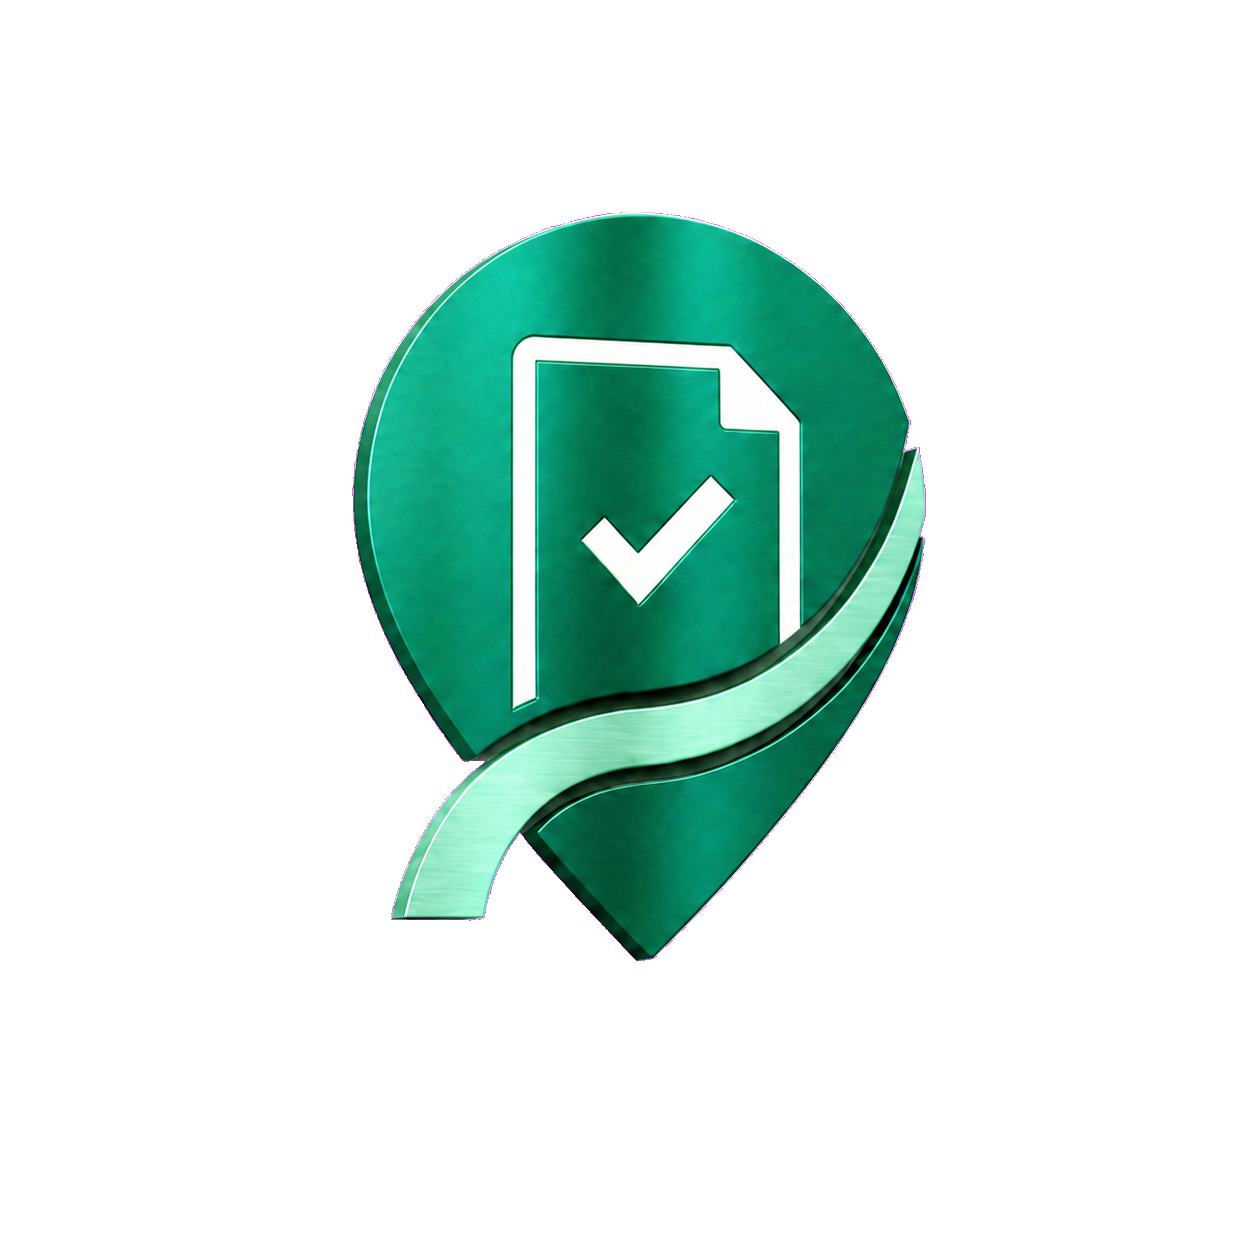
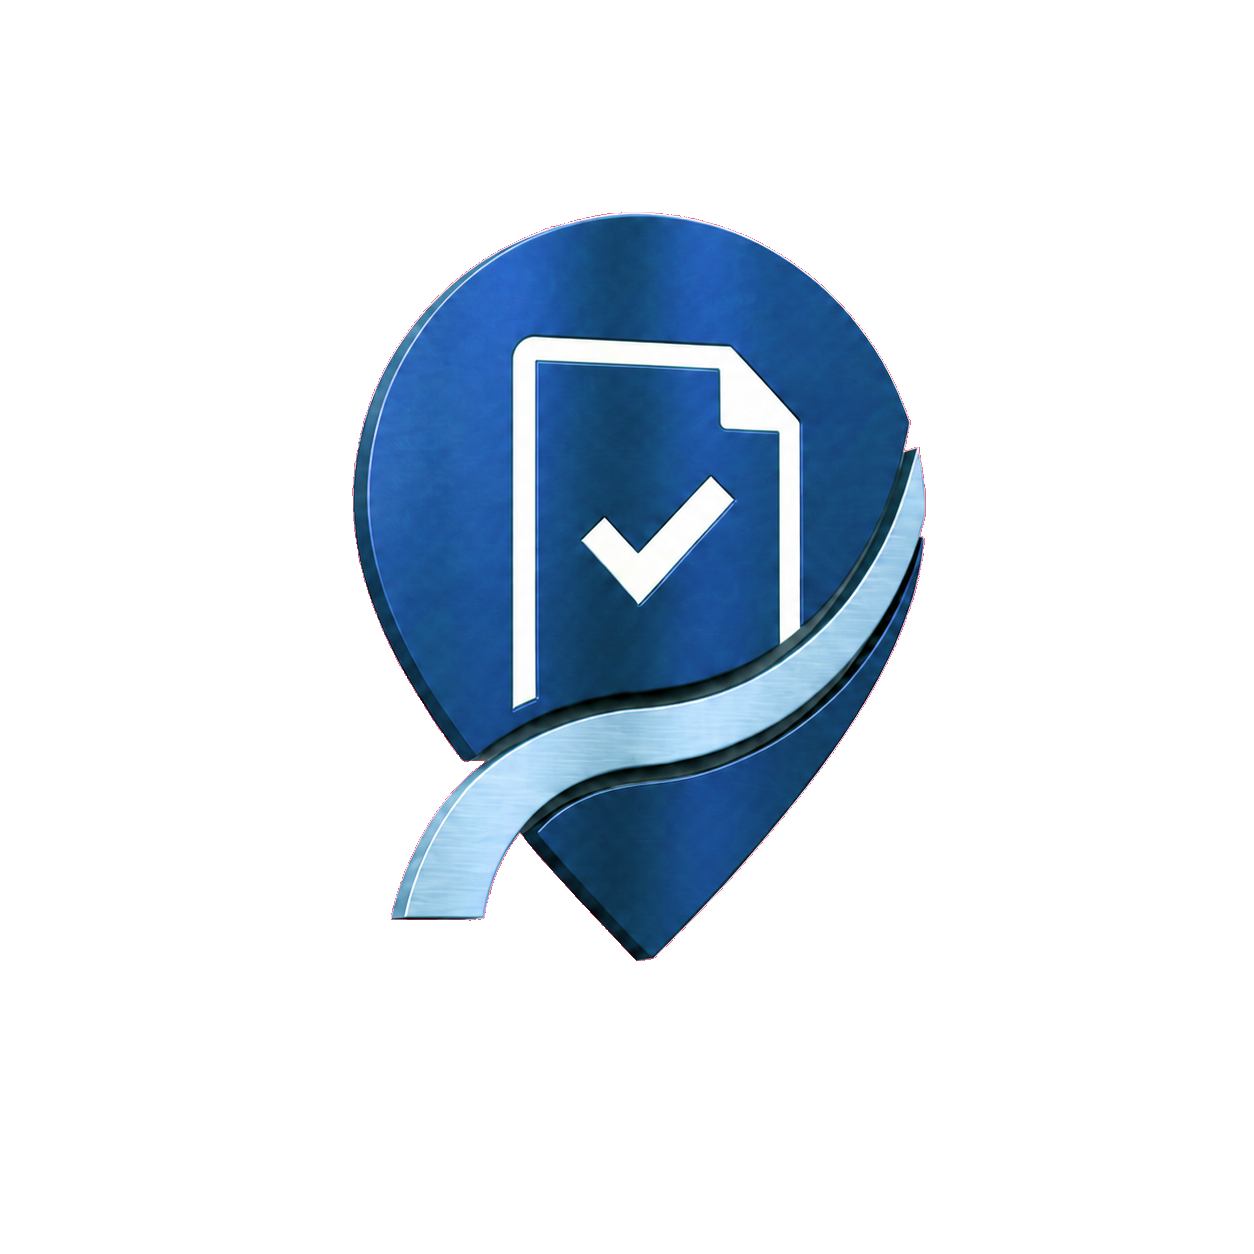
New ui

Changed region(s): [[0.2799, 0.1555, 0.7464, 0.7775]]

diff --git a/resources/css/app.css b/resources/css/app.css
@@ -48,69 +48,69 @@
 }
 
 :root {
-    --background: hsl(100 16% 97%);
-    --foreground: hsl(169 30% 12%);
+    --background: hsl(210 25% 98%);
+    --foreground: hsl(215 30% 14%);
     --card: hsl(0 0% 100%);
-    --card-foreground: hsl(169 30% 12%);
+    --card-foreground: hsl(215 30% 14%);
     --popover: hsl(0 0% 100%);
-    --popover-foreground: hsl(169 30% 12%);
-    --primary: hsl(171 58% 29%);
+    --popover-foreground: hsl(215 30% 14%);
+    --primary: hsl(213 45% 36%);
     --primary-foreground: hsl(0 0% 100%);
-    --secondary: hsl(160 24% 92%);
-    --secondary-foreground: hsl(171 52% 18%);
-    --muted: hsl(150 12% 94%);
-    --muted-foreground: hsl(168 10% 39%);
-    --accent: hsl(39 85% 87%);
-    --accent-foreground: hsl(33 72% 27%);
+    --secondary: hsl(212 26% 93%);
+    --secondary-foreground: hsl(214 35% 22%);
+    --muted: hsl(210 18% 94%);
+    --muted-foreground: hsl(214 12% 40%);
+    --accent: hsl(39 60% 90%);
+    --accent-foreground: hsl(32 50% 30%);
     --destructive: hsl(0 70% 45%);
     --destructive-foreground: hsl(0 0% 100%);
-    --border: hsl(160 12% 87%);
-    --input: hsl(160 12% 80%);
-    --ring: hsl(171 64% 28%);
-    --chart-1: hsl(171 64% 28%);
+    --border: hsl(212 16% 88%);
+    --input: hsl(212 16% 81%);
+    --ring: hsl(213 48% 38%);
+    --chart-1: hsl(213 48% 40%);
     --chart-2: hsl(39 73% 51%);
-    --chart-3: hsl(198 55% 40%);
+    --chart-3: hsl(198 55% 42%);
     --chart-4: hsl(18 65% 58%);
-    --chart-5: hsl(143 38% 42%);
+    --chart-5: hsl(152 32% 46%);
     --radius: 0.75rem;
-    --sidebar-background: hsl(150 18% 97%);
-    --sidebar-foreground: hsl(169 25% 20%);
-    --sidebar-primary: hsl(171 64% 21%);
+    --sidebar-background: hsl(211 24% 97%);
+    --sidebar-foreground: hsl(215 25% 22%);
+    --sidebar-primary: hsl(213 50% 28%);
     --sidebar-primary-foreground: hsl(0 0% 100%);
-    --sidebar-accent: hsl(160 24% 92%);
-    --sidebar-accent-foreground: hsl(171 52% 18%);
-    --sidebar-border: hsl(160 12% 87%);
-    --sidebar-ring: hsl(171 64% 28%);
+    --sidebar-accent: hsl(212 26% 92%);
+    --sidebar-accent-foreground: hsl(214 40% 20%);
+    --sidebar-border: hsl(212 16% 88%);
+    --sidebar-ring: hsl(213 48% 38%);
 }
 
 .dark {
-    --background: hsl(169 27% 8%);
-    --foreground: hsl(150 17% 94%);
-    --card: hsl(169 25% 11%);
-    --card-foreground: hsl(150 17% 94%);
-    --popover: hsl(169 25% 11%);
-    --popover-foreground: hsl(150 17% 94%);
-    --primary: hsl(156 45% 69%);
-    --primary-foreground: hsl(169 35% 10%);
-    --secondary: hsl(168 18% 17%);
-    --secondary-foreground: hsl(150 17% 94%);
-    --muted: hsl(168 18% 17%);
-    --muted-foreground: hsl(160 10% 67%);
-    --accent: hsl(38 38% 24%);
-    --accent-foreground: hsl(39 85% 87%);
+    --background: hsl(216 24% 8%);
+    --foreground: hsl(211 20% 93%);
+    --card: hsl(215 22% 11%);
+    --card-foreground: hsl(211 20% 93%);
+    --popover: hsl(215 22% 11%);
+    --popover-foreground: hsl(211 20% 93%);
+    --primary: hsl(211 55% 68%);
+    --primary-foreground: hsl(216 45% 10%);
+    --secondary: hsl(214 18% 17%);
+    --secondary-foreground: hsl(211 20% 93%);
+    --muted: hsl(214 18% 17%);
+    --muted-foreground: hsl(213 11% 67%);
+    --accent: hsl(38 32% 24%);
+    --accent-foreground: hsl(39 55% 88%);
     --destructive: hsl(0 64% 56%);
     --destructive-foreground: hsl(0 0% 100%);
-    --border: hsl(168 15% 22%);
-    --input: hsl(168 15% 26%);
-    --ring: hsl(156 45% 69%);
-    --sidebar-background: hsl(169 27% 9%);
-    --sidebar-foreground: hsl(150 17% 90%);
-    --sidebar-primary: hsl(156 45% 69%);
-    --sidebar-primary-foreground: hsl(169 35% 10%);
-    --sidebar-accent: hsl(168 18% 17%);
-    --sidebar-accent-foreground: hsl(150 17% 94%);
-    --sidebar-border: hsl(168 15% 22%);
-    --sidebar-ring: hsl(156 45% 69%);
+    --border: hsl(214 15% 21%);
+    --input: hsl(214 15% 26%);
+    --ring: hsl(211 55% 68%);
+    --sidebar-background: hsl(216 24% 9%);
+    --sidebar-foreground: hsl(211 18% 90%);
+    --sidebar-primary: hsl(211 55% 68%);
+    --sidebar-primary-foreground: hsl(216 45% 10%);
+    --sidebar-accent: hsl(214 18% 17%);
+    --sidebar-accent-foreground: hsl(211 20% 92%);
+    --sidebar-border: hsl(214 15% 21%);
+    --sidebar-ring: hsl(211 55% 68%);
 }
 
 :root {
@@ -149,7 +149,7 @@
     }
 
     :focus-visible {
-        outline: 3px solid hsl(171 64% 35%);
+        outline: 3px solid hsl(213 50% 42%);
         outline-offset: 3px;
     }
 
@@ -158,14 +158,14 @@
     }
 
     ::selection {
-        background: hsl(156 35% 78%);
-        color: hsl(169 35% 10%);
+        background: hsl(212 45% 82%);
+        color: hsl(216 45% 12%);
     }
 }
 
 @utility focus-ring {
     &:focus-visible {
-        outline: 3px solid hsl(171 64% 35%);
+        outline: 3px solid hsl(213 50% 42%);
         outline-offset: 3px;
     }
 }

diff --git a/resources/js/pages/dashboard.tsx b/resources/js/pages/dashboard.tsx
@@ -19,8 +19,8 @@ export default function Dashboard() {
         <AppLayout breadcrumbs={breadcrumbs}>
             <Head title="Staff dashboard" />
             <div className="flex h-full flex-1 flex-col gap-6 p-4 sm:p-6 lg:p-8">
-                <div className="rounded-2xl border border-emerald-200 bg-emerald-50 p-6 dark:border-emerald-900 dark:bg-emerald-950">
-                    <p className="text-sm font-semibold text-emerald-800 dark:text-emerald-200">Phase 5 workspace</p>
+                <div className="bg-card rounded-2xl border p-6 shadow-sm">
+                    <p className="text-primary text-sm font-semibold">Phase 5 workspace</p>
                     <h1 className="mt-2 text-2xl font-bold tracking-tight">Welcome, {user.name}</h1>
                     <p className="text-muted-foreground mt-2 max-w-3xl text-sm leading-6">
                         Your {roleLabel.toLowerCase()} account is active. Request operations are available to all staff, with reporting, staff
@@ -29,7 +29,7 @@ export default function Dashboard() {
                     <div className="mt-5 flex flex-wrap gap-3">
                         <Link
                             href={route('staff.requests.index')}
-                            className="inline-flex min-h-11 items-center gap-2 rounded-lg bg-emerald-800 px-4 text-sm font-bold text-white hover:bg-emerald-900 dark:bg-emerald-200 dark:text-emerald-950"
+                            className="bg-primary inline-flex min-h-11 items-center gap-2 rounded-lg px-4 text-sm font-bold text-primary-foreground hover:bg-primary/90"
                         >
                             <ClipboardList className="size-4" aria-hidden="true" />
                             Open request queue
@@ -38,21 +38,21 @@ export default function Dashboard() {
                             <>
                                 <Link
                                     href={route('admin.reports.index')}
-                                    className="inline-flex min-h-11 items-center gap-2 rounded-lg border border-emerald-700 bg-white px-4 text-sm font-bold text-emerald-900 hover:bg-emerald-100 dark:bg-emerald-950 dark:text-emerald-100"
+                                    className="inline-flex min-h-11 items-center gap-2 rounded-lg border bg-card px-4 text-sm font-bold hover:bg-muted"
                                 >
                                     <BarChart3 className="size-4" aria-hidden="true" />
                                     View reports
                                 </Link>
                                 <Link
                                     href={route('admin.staff.index')}
-                                    className="inline-flex min-h-11 items-center gap-2 rounded-lg border border-emerald-700 bg-white px-4 text-sm font-bold text-emerald-900 hover:bg-emerald-100 dark:bg-emerald-950 dark:text-emerald-100"
+                                    className="inline-flex min-h-11 items-center gap-2 rounded-lg border bg-card px-4 text-sm font-bold hover:bg-muted"
                                 >
                                     <Users className="size-4" aria-hidden="true" />
                                     Manage staff
                                 </Link>
                                 <Link
                                     href={route('admin.services.index')}
-                                    className="inline-flex min-h-11 items-center gap-2 rounded-lg border border-emerald-700 bg-white px-4 text-sm font-bold text-emerald-900 hover:bg-emerald-100 dark:bg-emerald-950 dark:text-emerald-100"
+                                    className="inline-flex min-h-11 items-center gap-2 rounded-lg border bg-card px-4 text-sm font-bold hover:bg-muted"
                                 >
                                     <LibraryBig className="size-4" aria-hidden="true" />
                                     Manage services

diff --git a/resources/js/pages/staff/requests/index.tsx b/resources/js/pages/staff/requests/index.tsx
@@ -48,7 +48,7 @@ export default function RequestQueue({ requests, filters, summary, services }: P
     const [sort, setSort] = useState(filters.sort);
     const summaryCards: { label: string; value: number; icon: LucideIcon; color: string }[] = [
         { label: 'Open', value: summary.open, icon: ClipboardList, color: 'text-foreground' },
-        { label: 'Assigned to me', value: summary.mine, icon: UserRoundCheck, color: 'text-emerald-700 dark:text-emerald-300' },
+        { label: 'Assigned to me', value: summary.mine, icon: UserRoundCheck, color: 'text-primary' },
         { label: 'Unassigned', value: summary.unassigned, icon: UsersRound, color: 'text-amber-700 dark:text-amber-300' },
         { label: 'Overdue', value: summary.overdue, icon: AlertTriangle, color: 'text-red-700 dark:text-red-300' },
     ];

diff --git a/resources/js/pages/tracking/show.tsx b/resources/js/pages/tracking/show.tsx
@@ -40,7 +40,7 @@ export default function TrackingShow({ trackedRequest }: Props) {
                     <p className="text-muted-foreground mt-2 font-mono text-sm font-bold">{trackedRequest.reference}</p>
                 </div>
                 <section
-                    className="bg-card rounded-3xl border border-emerald-200 p-6 shadow-sm sm:p-8 dark:border-emerald-900"
+                    className="bg-card rounded-3xl border p-6 shadow-sm sm:p-8"
                     aria-labelledby="current-status"
                 >
                     <div className="flex items-start gap-4">

diff --git a/resources/views/app.blade.php b/resources/views/app.blade.php
@@ -5,7 +5,7 @@
         <meta name="viewport" content="width=device-width, initial-scale=1">
 
         <title inertia>{{ config('app.name', 'SerbisyoTrack') }}</title>
-        <meta name="theme-color" content="#14594f">
+        <meta name="theme-color" content="#335885">
         <link rel="icon" href="/branding/serbisyo-track-icon.png" type="image/png">
         <link rel="apple-touch-icon" href="/branding/serbisyo-track-icon.png">
 
@@ -17,7 +17,7 @@
 
                 document.documentElement.classList.toggle('dark', isDark);
                 document.documentElement.style.colorScheme = isDark ? 'dark' : 'light';
-                document.querySelector('meta[name="theme-color"]').setAttribute('content', isDark ? '#0f1a18' : '#14594f');
+                document.querySelector('meta[name="theme-color"]').setAttribute('content', isDark ? '#101319' : '#335885');
             })();
         </script>
 
